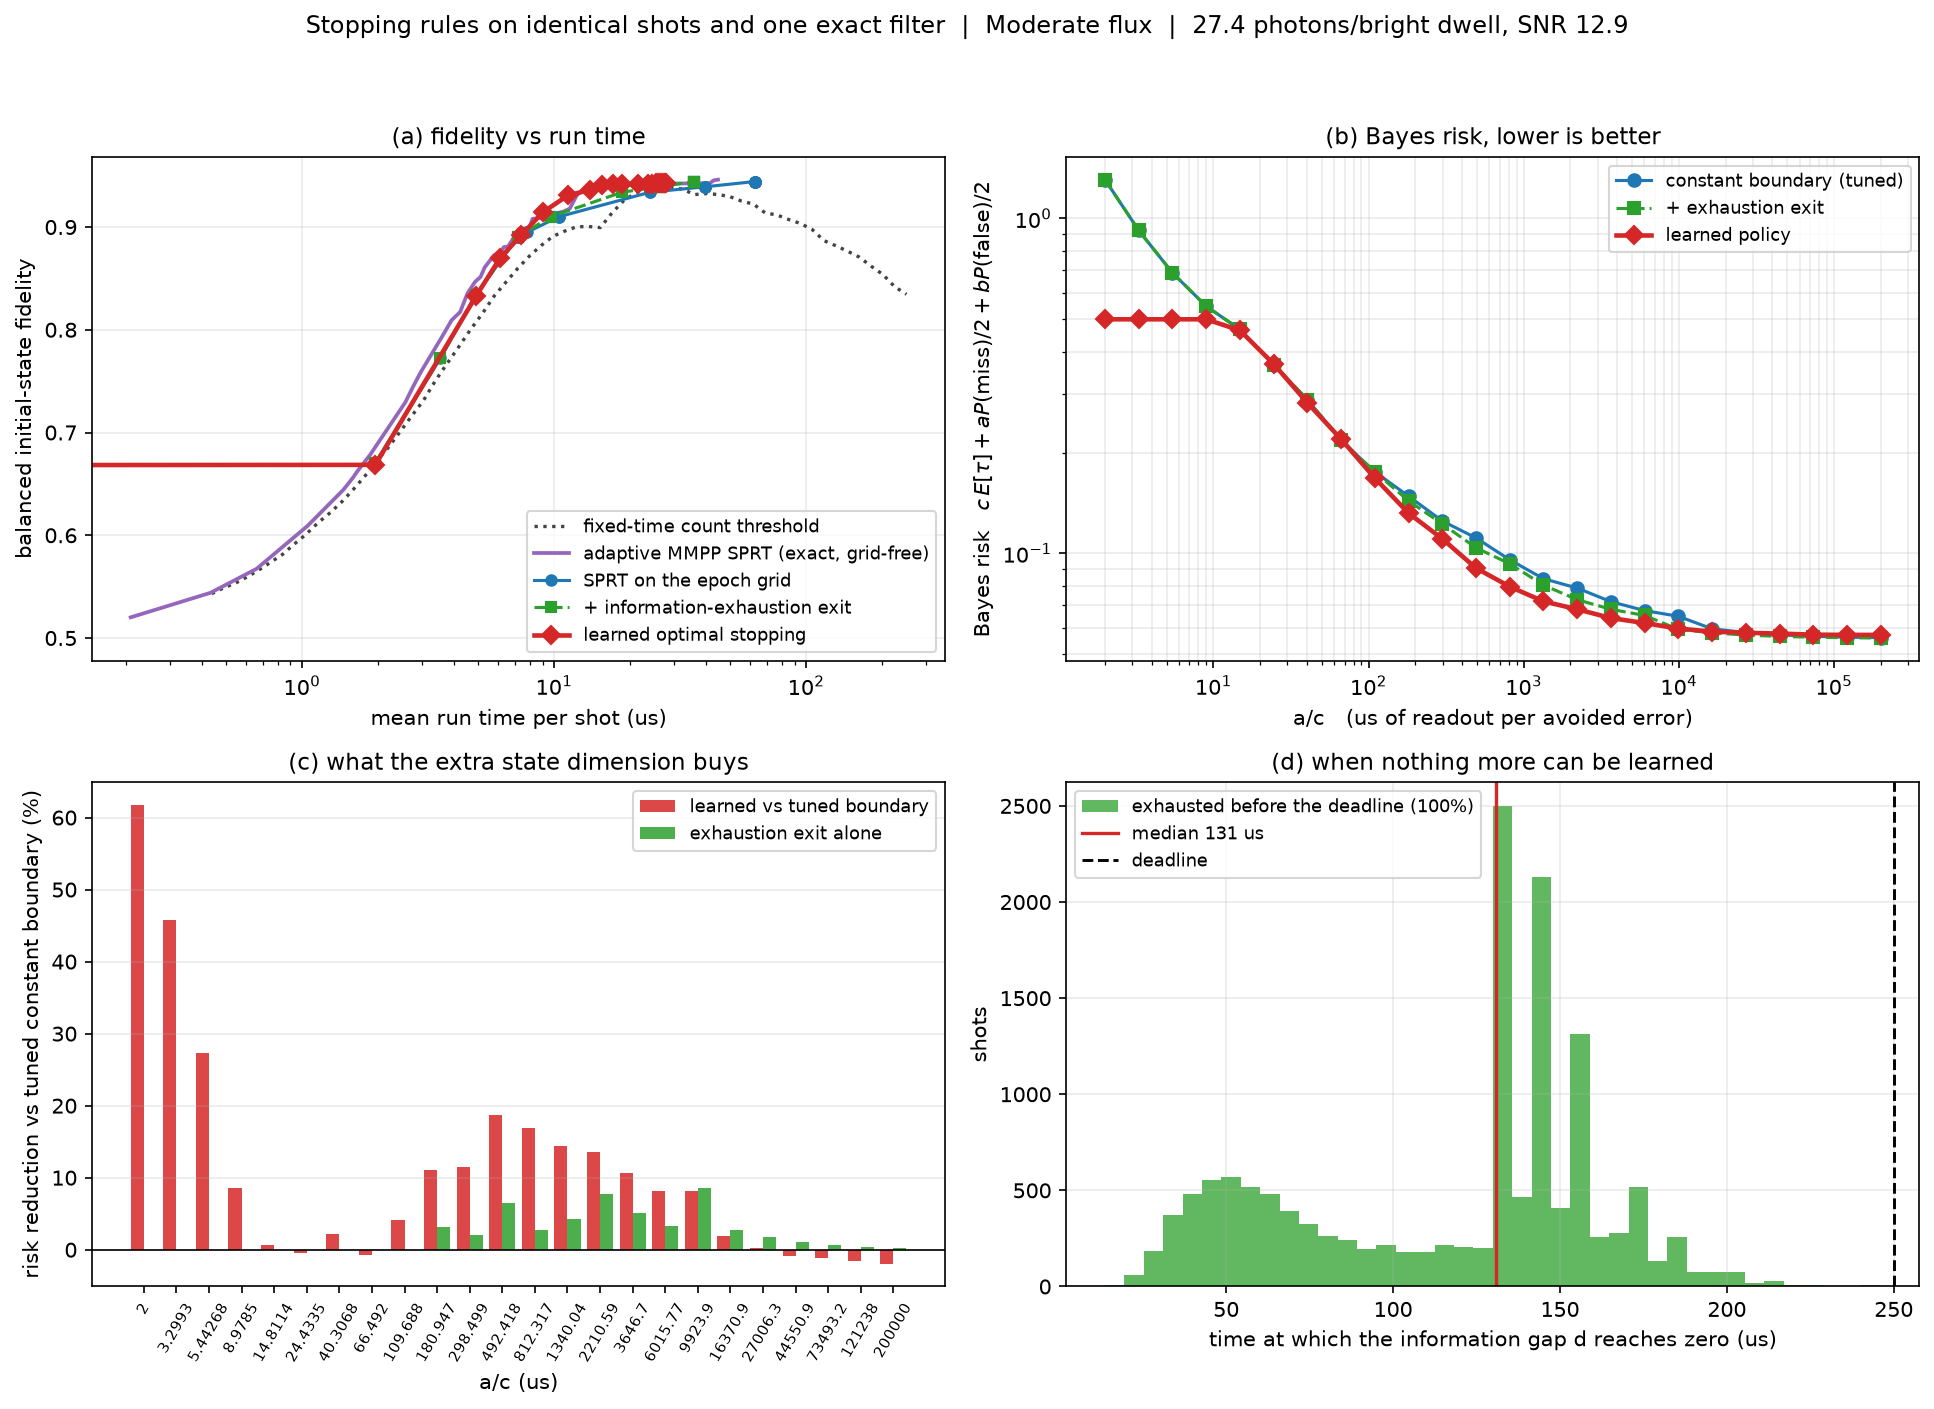
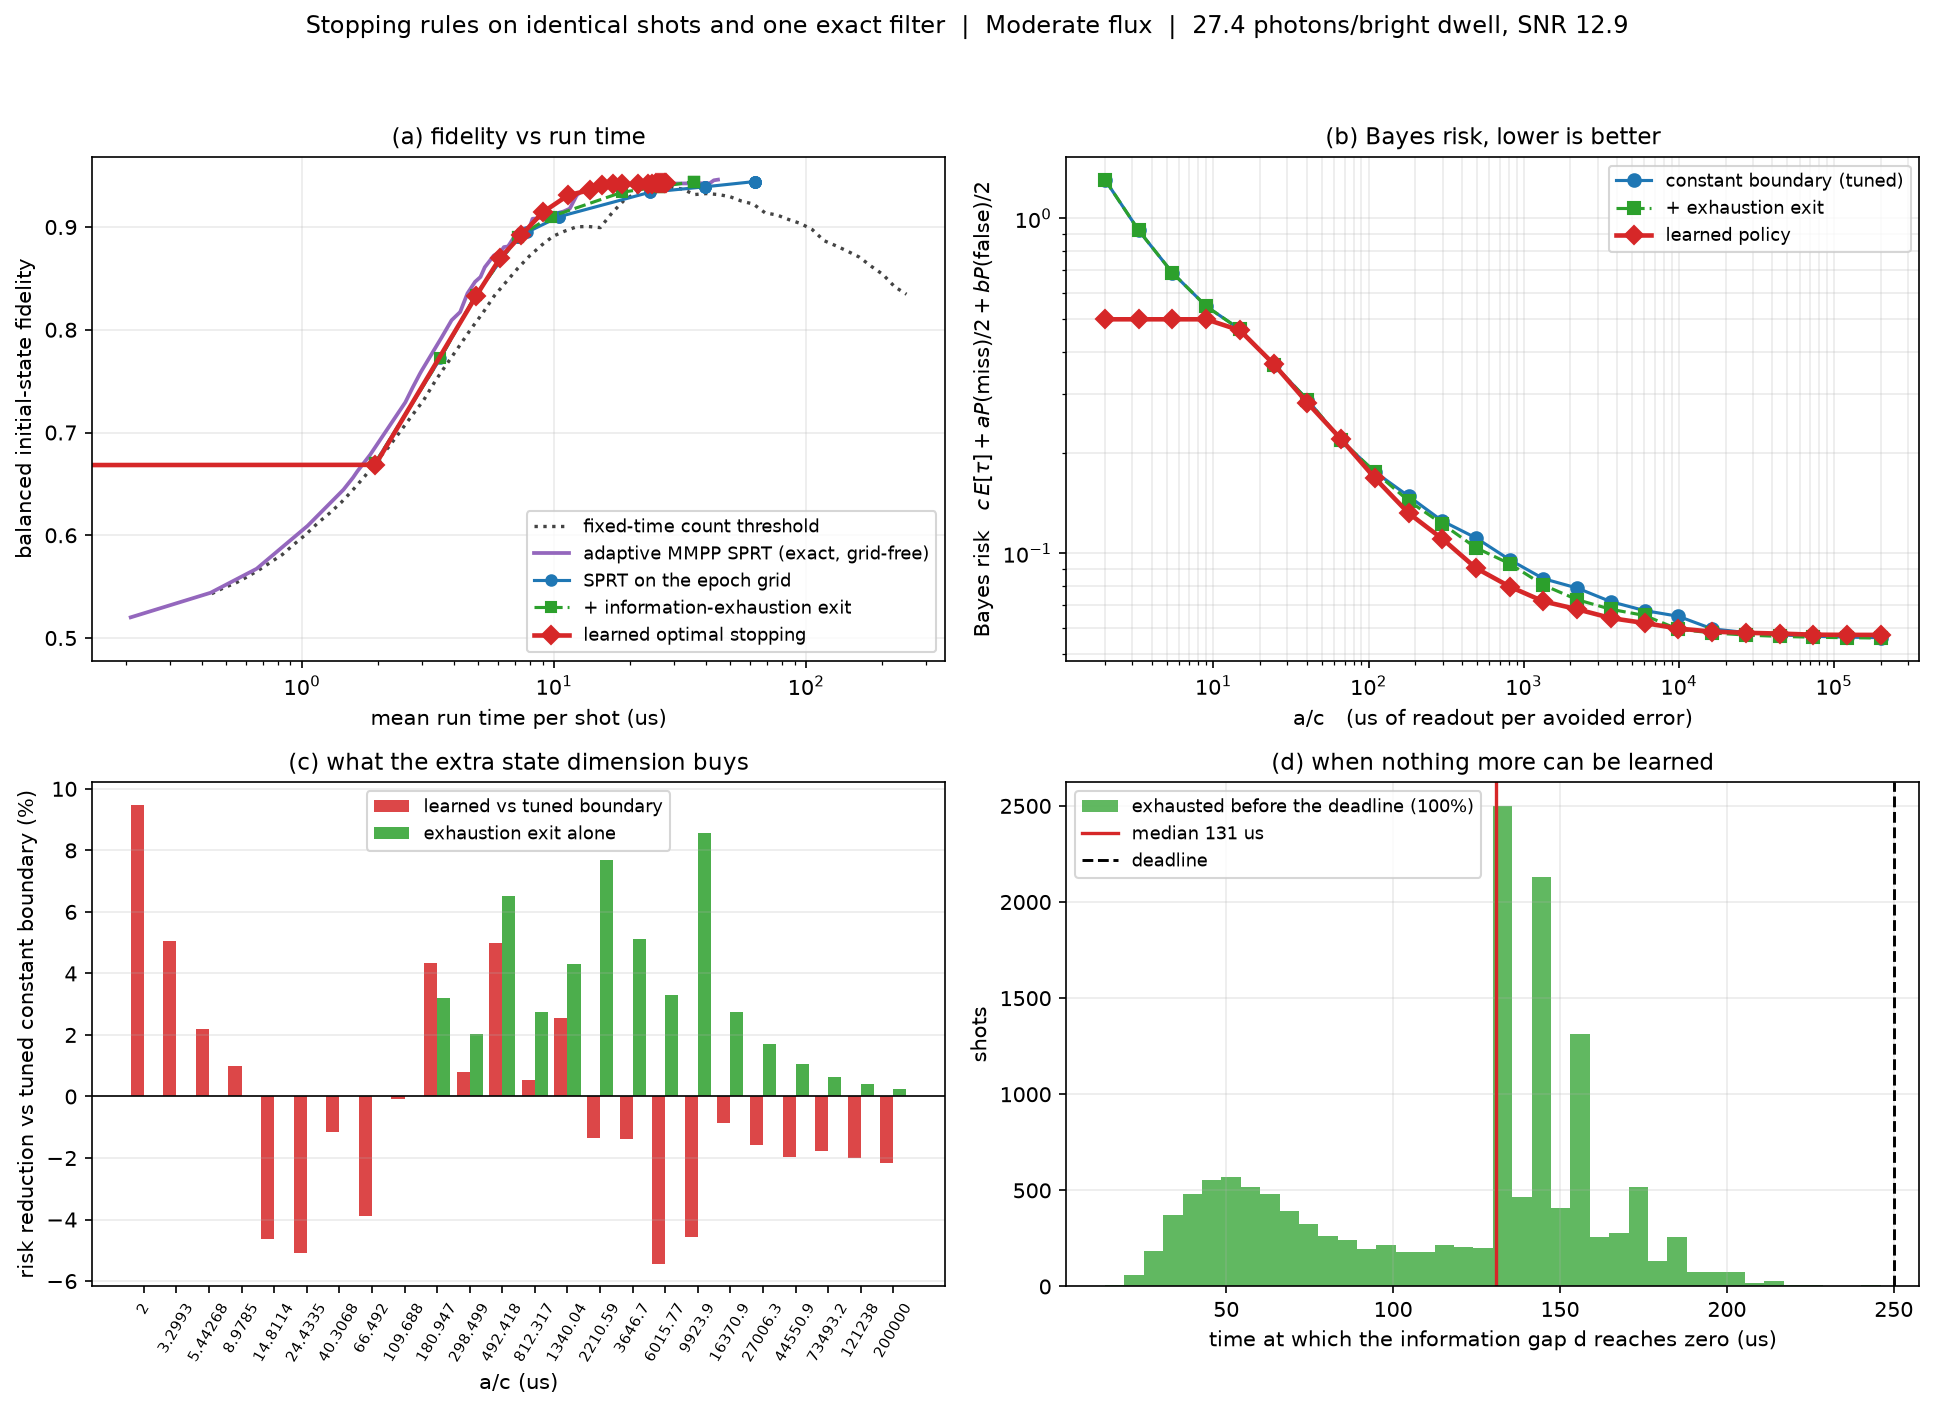
Correct the learned policy's advantage: it was the epoch grid, not the policy
Both places that reported a Bayes-risk advantage for the learned policy
were comparing it against the epoch-restricted boundary, because the
exact grid-free rule could not be scored in that currency until this
session. Against the best boundary variant:

  optimal, median over 24 a/c values
    high flux  +0.4%  (range -3.8% to +4.5%, wins 14/24)
    moderate   -1.2%  (range -5.4% to +9.5%, wins  9/24)
    sparse     -0.0%  (range -0.9% to +56.1%, wins 12/24)

  discard, 17 non-degenerate (point, w) settings
    exact boundary best in 10, learned in 7, margins under 1% in most

The previously published "+3% to +22% in the real regime" and
"10-24% at the moderate point" are both withdrawn. At the moderate
point the learned policy is actually behind at most a/c; where it leads
is a narrow band around a/c 200-1300 and the degenerate corner below
a/c 10, where it can abandon at t = 0 and a boundary cannot.

This strengthens the standing conclusion rather than weakening it: a
tuned constant boundary with a calibrated offset is close to the Bayes
optimum, and stays close when a third action is added. The exact rule
is also much faster than the epoch one -- 13.0 us against 18.4 us at
the moderate point, 76.7 against 54.3 retained shots per ms -- so the
grid was costing it real time, not just decision resolution.

Also fixed two stale numbers in the large-a/c paragraph and the check
count in both READMEs.

Claude-Session: https://claude.ai/code/session_01QPNqKJ2d1r7hY2FSJML7Zq

Changed region(s): [[0.062, 0.5621, 0.4654, 0.9056], [0.0, 0.5621, 0.031, 0.8744]]

diff --git a/results/README.md b/results/README.md
@@ -179,25 +179,31 @@ with a/c swept from 2 to 2×10⁵ µs. Unlike "time to reach F*", this objective
 requires naming what a microsecond is worth — which is the point: a/c is the
 knob that traces the frontier.
 
-At the moderate reference point, against the constant boundary tuned under
-the same economics on the same calibration paths:
+**Corrected.** An earlier version of this table compared the learned policy
+only against the **epoch-restricted** boundary and reported +3% to +22% "in
+the real regime". The exact grid-free SPRT could not be scored in this
+currency at the time because `run_sprt` took no economics. It can now, and
+against the best of the three boundary variants the advantage largely
+evaporates:
 
-| a/c (µs) | regime | learned vs tuned boundary |
+| point | learned vs *best* boundary | wins |
 |---|---|---|
-| < 15 | degenerate — stop at t = 0 and guess | not meaningful |
-| 24–66 | tie | 0.0% to −0.5% |
-| 110–6000 | **the real regime** | **+3% to +22%** |
-| > 9900 | time nearly free | −3% to −7% |
+| high flux | median **+0.4%**, range [−3.8%, +4.5%] | 14 of 24 a/c |
+| moderate | median **−1.2%**, range [−5.4%, +9.5%] | 9 of 24 a/c |
+| sparse | median **−0.0%**, range [−0.9%, +56.1%] | 12 of 24 a/c |
 
-Median over the whole a/c grid is +8.2%, which flatters the ends and
-understates the middle. Two honest caveats sit at the edges. Below a/c = 15
+At the moderate point the learned policy is *behind* the exact boundary at
+most values of a/c. Where it leads is a narrow band around a/c ≈ 200–1300
+(+0.5% to +5.0%) and the degenerate a/c < 10 corner, where it can abandon at
+t = 0 and the boundary cannot. The epoch grid, not the policy, was most of
+the earlier number. Two honest caveats sit at the edges. Below a/c = 15
 the "win" is only that the policy may stop at epoch 0 while the boundary rule
 must wait one epoch. Above a/c ≈ 10⁴ the policy **loses**: it plateaus at
-F = 0.9443 and T = 32 µs while the boundary runs to a long deadline and
-reaches 0.9497. At near-free time the value differences the regression must
-resolve become tiny against the payoff scale, and it stops too early. That is
-a limitation of regression Monte Carlo at extreme economics, not of the
-formulation.
+F ≈ 0.943 and T ≈ 26 µs while the exact boundary keeps buying accuracy with
+time, reaching 0.9456 at 34 µs. At near-free time the value differences the
+regression must resolve become tiny against the payoff scale, and it stops
+too early. That is a limitation of regression Monte Carlo at extreme
+economics, not of the formulation.
 
 On the fidelity-vs-time currency, against the **exact grid-free** SPRT — the
 stronger incumbent, since methods 3–5 are restricted to a 128-epoch grid:
@@ -214,16 +220,17 @@ stronger incumbent, since methods 3–5 are restricted to a 128-epoch grid:
 **The conclusion is a negative one, and it is the useful kind.** The tuned
 SPRT is within a few percent of the Bayes optimum over most of the frontier,
 and loses only in the top ~3% of the fidelity range, where the learned policy
-is 9–23% faster. Across the other two demo points the median risk reduction
-is +1.0% (high flux) and +0.5% (sparse) — inside the noise. There is no large
-unclaimed gain sitting in a smarter stopping rule; the SPRT with a calibrated
-asymmetric boundary is close to all there is.
+is 9–23% faster. In the Bayes-risk currency, against the best boundary
+variant, the median advantage is **+0.4%, −1.2% and −0.0%** at the three
+points — i.e. nothing. There is no large unclaimed gain sitting in a smarter
+stopping rule; the SPRT with a calibrated asymmetric boundary is close to all
+there is, and the earlier double-digit figures were measuring the epoch grid.
 
 | point | ph/dwell | thr ceiling | exact MMPP | learned | median risk reduction |
 |---|---|---|---|---|---|
-| high flux | 9.93 | 0.8807 | 0.8962 | 0.8960 | +1.0% |
-| moderate | 27.43 | 0.9397 | 0.9461 | 0.9432 | +8.2% |
-| sparse | 2.74 | 0.7941 | 0.7991 | 0.7983 | +0.5% |
+| high flux | 9.93 | 0.8807 | 0.8962 | 0.8960 | +0.4% |
+| moderate | 27.43 | 0.9397 | 0.9461 | 0.9432 | −1.2% |
+| sparse | 2.74 | 0.7941 | 0.7991 | 0.7983 | −0.0% |
 
 ### The information-exhaustion exit is free, and worth taking
 
@@ -663,7 +670,7 @@ custom classes, so a bare `pickle.load` with no imports works.
 ## Reproducing
 
 ```bash
-python adaptive_charge_state_master.py validate                  # 84 checks
+python adaptive_charge_state_master.py validate                  # 86 checks
 python adaptive_charge_state_master.py run  <experiment> --out results [detector flags]
 python adaptive_charge_state_master.py plot <experiment> --out results [detector flags]
 python adaptive_charge_state_master.py export <experiment> --out results [detector flags]

diff --git a/README.md b/README.md
@@ -137,7 +137,7 @@ the LLR and is absorbed by the calibrated boundary.
 
 ```bash
 python adaptive_charge_state_master.py list              # experiments, points, presets
-python adaptive_charge_state_master.py validate          # 84 numerical checks
+python adaptive_charge_state_master.py validate          # 86 numerical checks
 python adaptive_charge_state_master.py run power         # simulate + analyze
 python adaptive_charge_state_master.py run ratio --point 0,2 --quick
 python adaptive_charge_state_master.py plot contrast     # figures + summary
@@ -206,6 +206,6 @@ the file falls back to a self-contained reference implementation pinned to the
 same 5.437 µW operating point (Γ_tot = 9.42 kHz, p_bright = 0.118) — a
 documented stand-in, not a re-measurement, and its emission rates and power
 dependence differ substantially. `list` and `validate` report which layer is
-active, every saved result records it, and `validate` passes 84/84 on both.
+active, every saved result records it, and `validate` passes 86/86 on both.
 
 Requires `numpy`, `scipy` and `matplotlib`.
